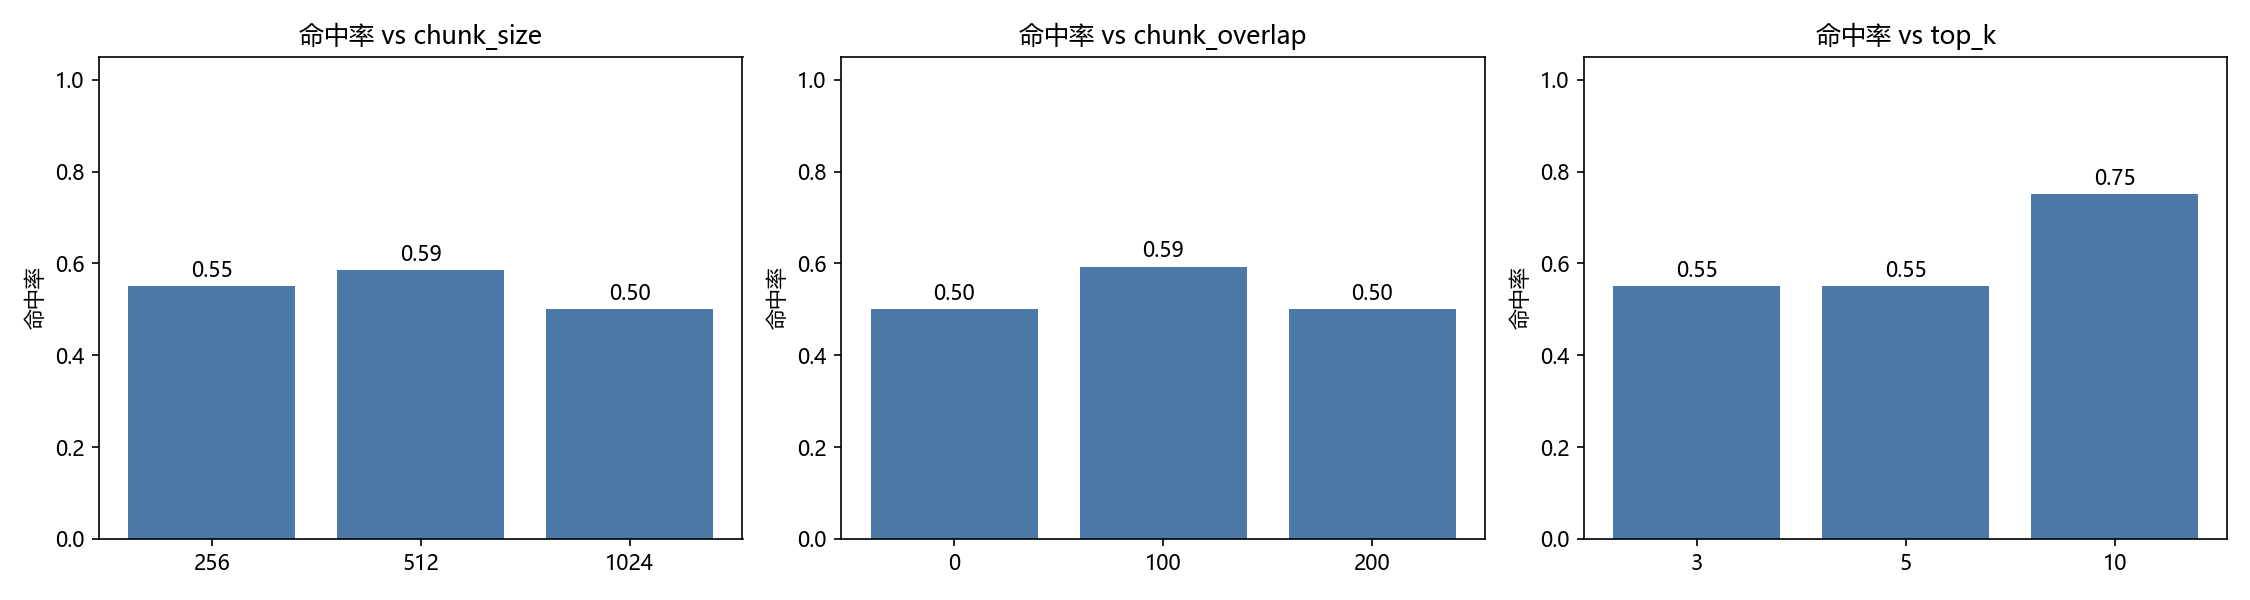
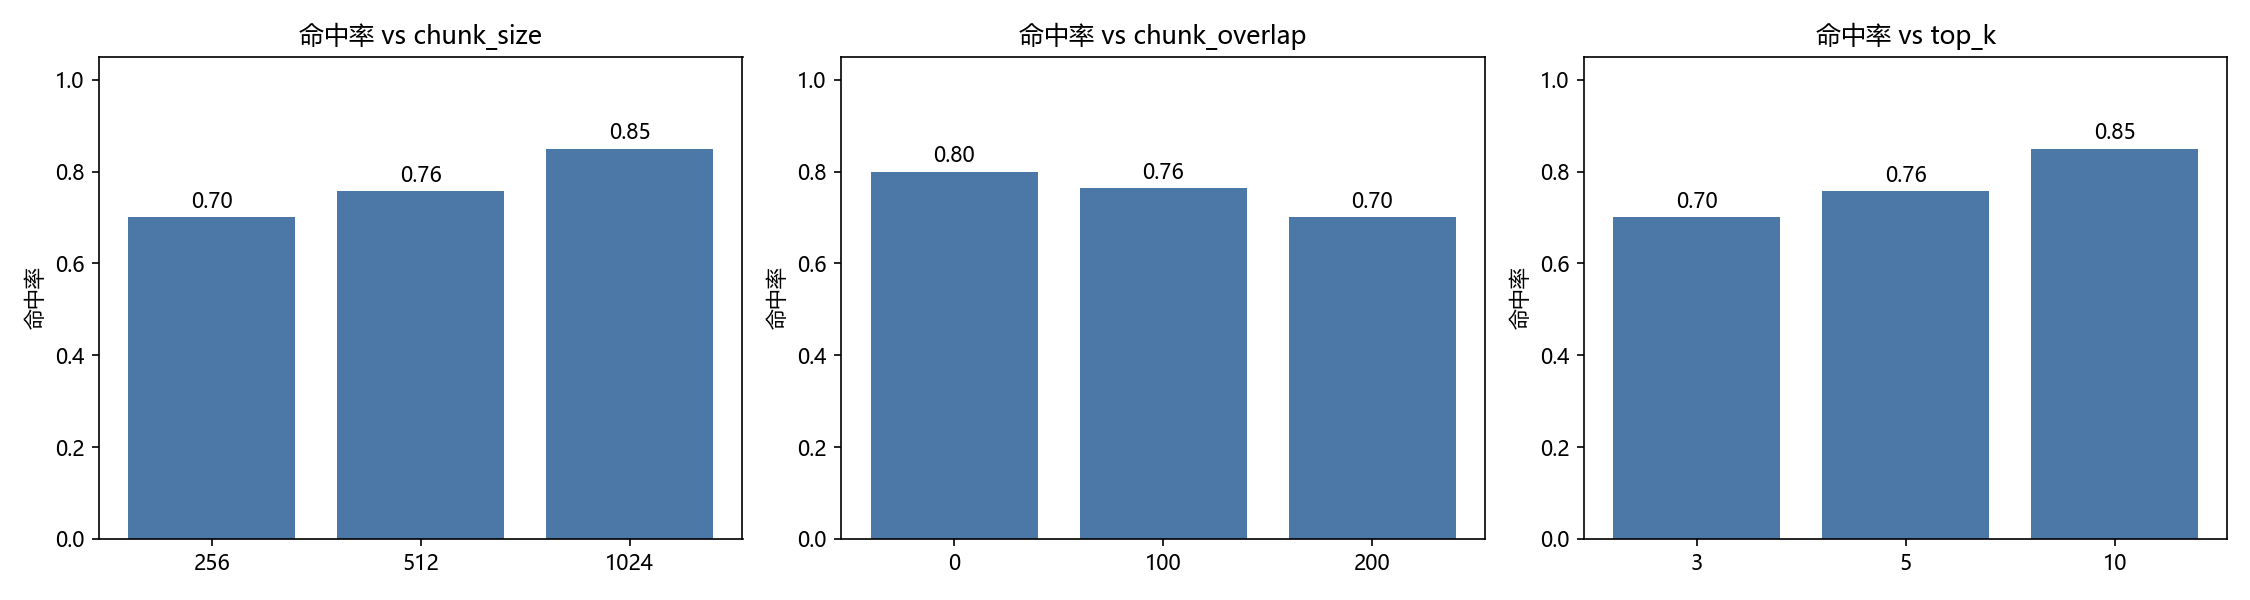
experiment8: fault drill via SSH + evidence screenshots; RAG: sync notes and fix hit-rate eval

Changed region(s): [[0.0311, 0.24, 0.3422, 0.54], [0.3733, 0.24, 0.6533, 0.54], [0.7156, 0.21, 0.9956, 0.48]]

diff --git a/rag-knowledge-base/evaluate.py b/rag-knowledge-base/evaluate.py
@@ -62,7 +62,8 @@ def evaluate(chunk_size, chunk_overlap, top_k, tag, with_llm=False, limit=None):
     latencies = []
     for q, keywords in qa_pairs:
         r = answer(q, db_dir=db_dir, top_k=top_k, with_llm=with_llm)
-        context = " ".join(s["snippet"] for s in r["sources"]).lower()
+        # 用完整检索上下文判断命中（snippet 仅前 150 字，关键词可能在片段后半被截断）
+        context = r.get("context", " ".join(s["snippet"] for s in r["sources"])).lower()
         if any(k.lower() in context for k in keywords):
             hit += 1
         if with_llm and r.get("answer") and any(k.lower() in r["answer"].lower() for k in keywords):

diff --git a/rag-knowledge-base/retrieve.py b/rag-knowledge-base/retrieve.py
@@ -91,7 +91,8 @@ def answer(question, db_dir=config.DB_DIR, top_k=config.TOP_K, with_llm=True):
                         "snippet": d.page_content[:150]})
     context = "\n\n".join(d.page_content for d in docs)
 
-    result = {"question": q.question, "sources": sources, "context_len": len(context)}
+    result = {"question": q.question, "sources": sources,
+              "context": context, "context_len": len(context)}
     if with_llm:
         prompt = f"基于以下资料回答问题，不要编造。资料：\n{context}\n\n问题：{q.question}\n答案："
         llm = make_llm()

diff --git a/notes/08-fault-drill.md b/notes/08-fault-drill.md
@@ -1,7 +1,7 @@
 # 笔记 08：磁盘告警与连接数打满故障演练
 
-> 状态：**模板（待实测填充）**。实验 8 属手册标注的"可压缩"项，前 7 个实验完成后补做。
-> 实测时把真实报错原文贴进【实测证据】段，截图存 `mysql-ops/08-fault-drill/`。
+> 状态：**已实测（2026-11-27）**。通过 SSH 连接 node1 自动执行，真实命令输出存 `mysql-ops/08-fault-drill/exp8_evidence_*.txt`。
+> 实验 8 属手册标注的"可压缩"项，前 7 个实验完成后补做。
 
 ## 一、环境
 
@@ -55,12 +55,51 @@ mysql -uroot -pNewPass@123 -e "SET GLOBAL max_connections=200;"
 
 **截图**：S60-too-many-connections.png（`ERROR 1040 ... Too many connections` 原文）。
 
-## 四、【实测证据】（待填充）
+## 四、【实测证据】（2026-11-27 实测原文）
 
-- 磁盘满报错原文：
-- 连接打满报错原文：
-- `SHOW PROCESSLIST` 看到的来源：
-- 告警日志内容：
+**监控脚本告警日志（S58）**：
+```
+2026-11-27 09:06:57  [OK]  disk=11% conn=1 slow=0
+```
+
+**磁盘满报错原文（S59）**：
+```
+# 路径一：大排序写临时文件失败
+ERROR 3 (HY000) at line 1: Error writing file '/tmp/MYfd=38' (OS errno 28 - No space left on device)
+
+# 路径二：InnoDB 表空间无法扩展
+ERROR 1114 (HY000): The table 'sbtest_diskfull' is full
+
+# 填充后磁盘状态
+/dev/mapper/centos-root   46G   45G  196M  100% /
+
+# 定位大文件
+-rw-r--r--. 1 root root 41G /tmp/bigfile
+101M  #innodb_redo
+785M  mysql-bin.000011
+1.0G  sbtest
+```
+
+**连接打满报错原文（S60）**：
+```
+ERROR 1040 (HY000): Too many connections
+ERROR 1040 (HY000): Too many connections
+ERROR 1040 (HY000): Too many connections
+ERROR 1040 (HY000): Too many connections
+ERROR 1040 (HY000): Too many connections
+```
+
+**`SHOW PROCESSLIST` 看到的来源**：并发客户端连接被拒后，仅剩 event_scheduler 与当前查询连接，异常连接已被 MySQL 拒绝在门外：
+```
+Id  User   Host        Command  Time  State                 Info
+5   event_scheduler localhost Daemon  3825  Waiting on empty queue NULL
+30  root   localhost   Query    0     init                  SHOW PROCESSLIST
+```
+
+**关键参数复原**：`max_connections` 从 10 调回 200；binlog 过期从 30 天改为 7 天（`binlog_expire_logs_seconds=604800`）。
+
+> 完整原始输出：`mysql-ops/08-fault-drill/exp8_evidence_S58_S60.txt` 与 `exp8_evidence_S59.txt`。
+> 注：本机 SSH 系统 root 密码为 `root`（实验环境），MySQL root 密码为 `NewPass@123`。
 
 ## 五、面试重点
 

diff --git a/rag-knowledge-base/data/08-fault-drill.md b/rag-knowledge-base/data/08-fault-drill.md
@@ -1,7 +1,7 @@
 # 笔记 08：磁盘告警与连接数打满故障演练
 
-> 状态：**模板（待实测填充）**。实验 8 属手册标注的"可压缩"项，前 7 个实验完成后补做。
-> 实测时把真实报错原文贴进【实测证据】段，截图存 `mysql-ops/08-fault-drill/`。
+> 状态：**已实测（2026-11-27）**。通过 SSH 连接 node1 自动执行，真实命令输出存 `mysql-ops/08-fault-drill/exp8_evidence_*.txt`。
+> 实验 8 属手册标注的"可压缩"项，前 7 个实验完成后补做。
 
 ## 一、环境
 
@@ -55,12 +55,51 @@ mysql -uroot -pNewPass@123 -e "SET GLOBAL max_connections=200;"
 
 **截图**：S60-too-many-connections.png（`ERROR 1040 ... Too many connections` 原文）。
 
-## 四、【实测证据】（待填充）
+## 四、【实测证据】（2026-11-27 实测原文）
 
-- 磁盘满报错原文：
-- 连接打满报错原文：
-- `SHOW PROCESSLIST` 看到的来源：
-- 告警日志内容：
+**监控脚本告警日志（S58）**：
+```
+2026-11-27 09:06:57  [OK]  disk=11% conn=1 slow=0
+```
+
+**磁盘满报错原文（S59）**：
+```
+# 路径一：大排序写临时文件失败
+ERROR 3 (HY000) at line 1: Error writing file '/tmp/MYfd=38' (OS errno 28 - No space left on device)
+
+# 路径二：InnoDB 表空间无法扩展
+ERROR 1114 (HY000): The table 'sbtest_diskfull' is full
+
+# 填充后磁盘状态
+/dev/mapper/centos-root   46G   45G  196M  100% /
+
+# 定位大文件
+-rw-r--r--. 1 root root 41G /tmp/bigfile
+101M  #innodb_redo
+785M  mysql-bin.000011
+1.0G  sbtest
+```
+
+**连接打满报错原文（S60）**：
+```
+ERROR 1040 (HY000): Too many connections
+ERROR 1040 (HY000): Too many connections
+ERROR 1040 (HY000): Too many connections
+ERROR 1040 (HY000): Too many connections
+ERROR 1040 (HY000): Too many connections
+```
+
+**`SHOW PROCESSLIST` 看到的来源**：并发客户端连接被拒后，仅剩 event_scheduler 与当前查询连接，异常连接已被 MySQL 拒绝在门外：
+```
+Id  User   Host        Command  Time  State                 Info
+5   event_scheduler localhost Daemon  3825  Waiting on empty queue NULL
+30  root   localhost   Query    0     init                  SHOW PROCESSLIST
+```
+
+**关键参数复原**：`max_connections` 从 10 调回 200；binlog 过期从 30 天改为 7 天（`binlog_expire_logs_seconds=604800`）。
+
+> 完整原始输出：`mysql-ops/08-fault-drill/exp8_evidence_S58_S60.txt` 与 `exp8_evidence_S59.txt`。
+> 注：本机 SSH 系统 root 密码为 `root`（实验环境），MySQL root 密码为 `NewPass@123`。
 
 ## 五、面试重点
 

diff --git a/README.md b/README.md
@@ -26,7 +26,7 @@ VMware Workstation + CentOS 7 + MySQL 8.0；Percona XtraBackup 8.0；Python 3.10
 - **压测基线**：8 线程 60 秒，TPS 467 / QPS 9345 / 95% 延迟 30.26ms
 - **备份恢复**：mysqldump + binlog PITR、XtraBackup 全量 + 增量恢复均已验证
 - **主从复制**：GTID 自动定位 + 延迟演练 + 半同步（source_status=ON, clients=1）
-- **RAG**：LangChain + Chroma + 混合检索 + CrossEncoder 重排序，9 组参数对比实测（chunk_size 512 / overlap 100 / top_k 10 最优，命中率 0.75），结果见 `rag-knowledge-base/results/`
+- **RAG**：LangChain + Chroma + 混合检索 + CrossEncoder 重排序，9 组参数对比实测（chunk_size 1024 / overlap 0 / top_k 10 最优，命中率 0.85），结果见 `rag-knowledge-base/results/`
 
 ## 博客文章（掘金，已发布 4 篇）
 
